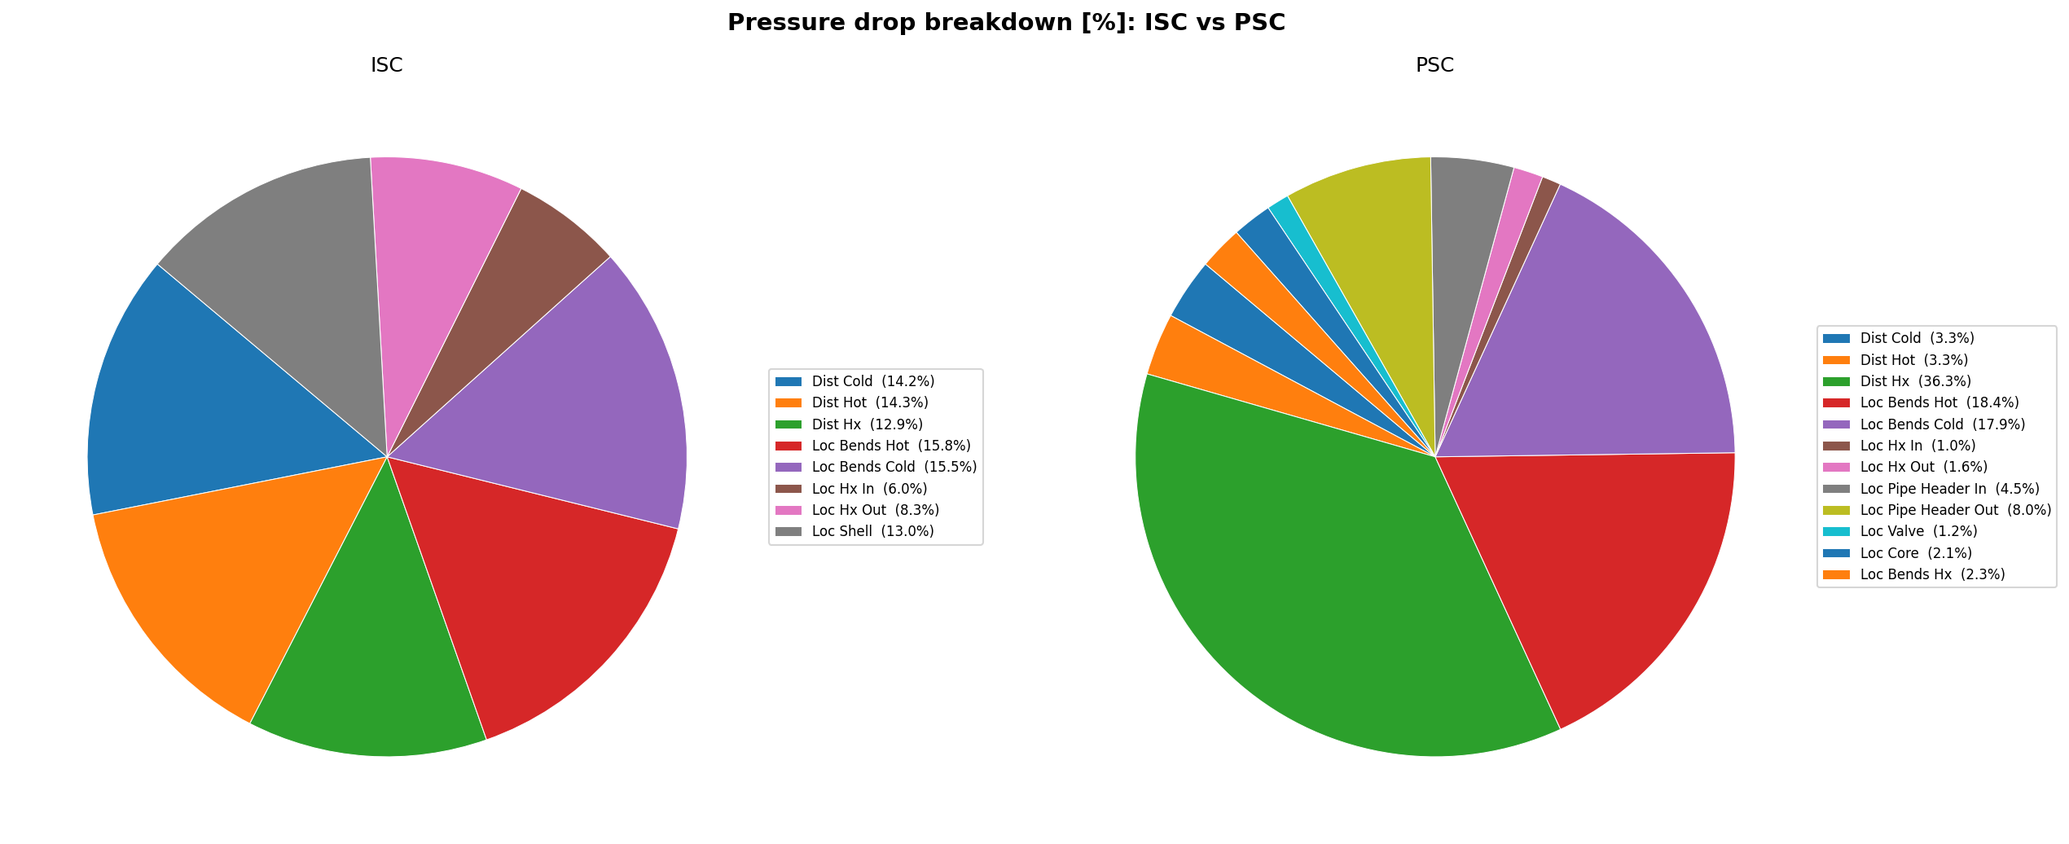
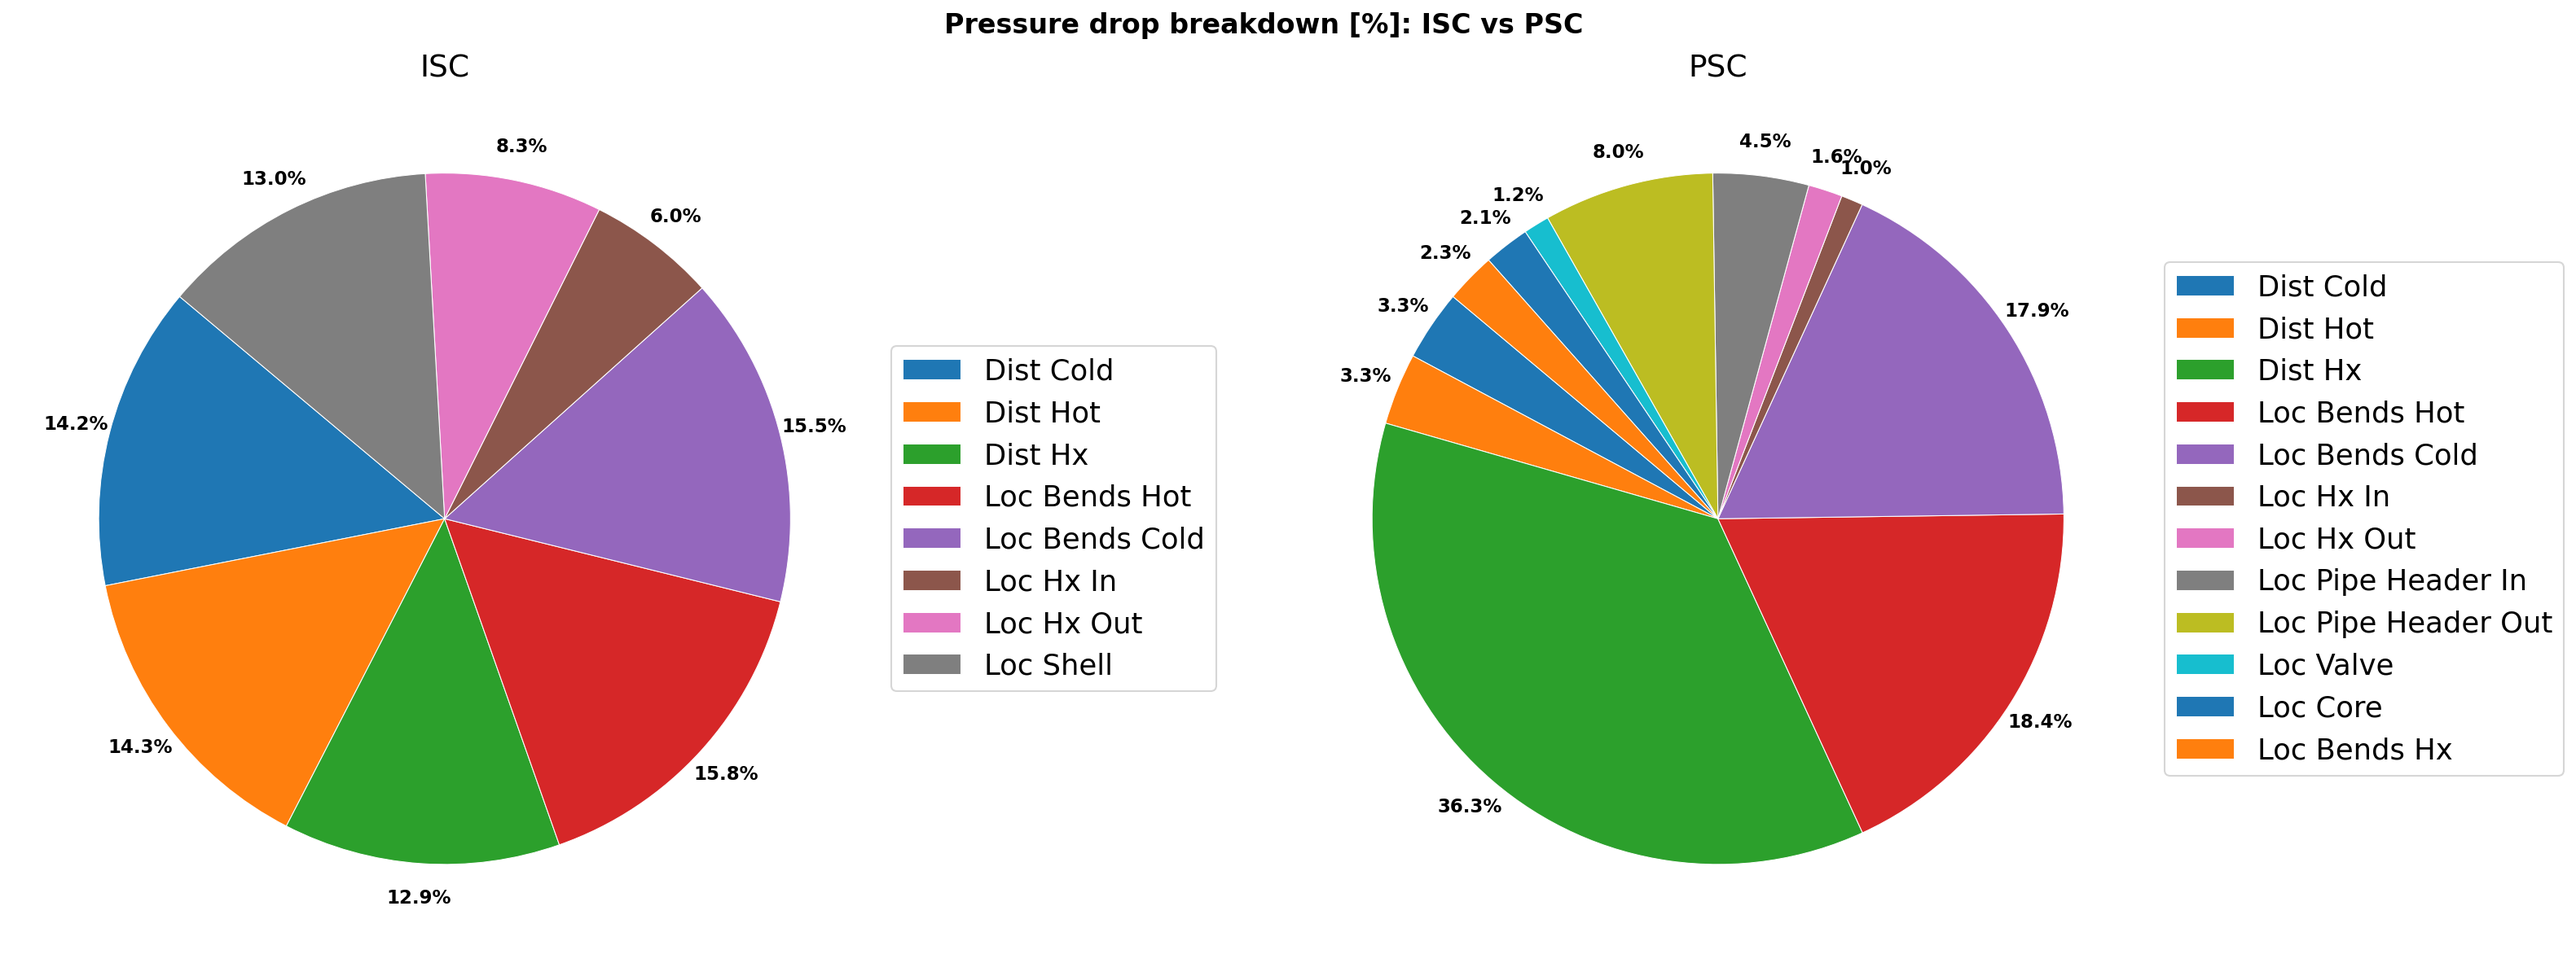
grafici aggiornati

diff --git a/assignment1/project2.py b/assignment1/project2.py
@@ -19,7 +19,7 @@ def reynolds_number(m, D_int, p, T):
 def reynolds_number_shell(m, p, T, d_p, od_HX, D_eq, A_shell):
     ' Calcola il numero di Reynolds per il lato shell (considero la total cross section dei tubi moltiplicata per il numero di tubi)'
     mu = CP.PropsSI('V', 'T', T+273.15, 'P', p, 'Water') # viscosità dinamica
-    Re = m*D_eq / (A_shell*mu) # controllare
+    Re = m*D_eq / (A_shell*mu) 
     return Re
 
 def friction_factor(eps, D, Re):
@@ -56,7 +56,7 @@ def global_heat_transfer_coefficient_HX(P, A_tot, D_ext, D_int, k, Re, p, T, f, 
     # metodo delle resistenze termiche in serie
     U = 1 / (1/h_ext + cond + D_ext/(D_int*h_int))
     deltaT_lm = P / (A_tot * U * F)
-    return U, deltaT_lm
+    return U, deltaT_lm, h_int, h_ext
 
 def temperature_ISC(T, p, T_h_ext, T_c_ext, deltaT_lm, m, P_term):
     ' Calcola la temperatura nel ramo caldo e nel ramo freddo '
@@ -238,7 +238,7 @@ def iteration(config, m_init=100, T_av_init=120, tolerance=1e-5, max_iter=100, s
         # Per PSC, se shell_params è fornito, i valori sono già stati assegnati all'inizio e non serve riassegnare
         
         # Calcolo U e deltaT_lm nello scambiatore
-        U, deltaT_lm = global_heat_transfer_coefficient_HX(
+        U, deltaT_lm, h_int, h_ext = global_heat_transfer_coefficient_HX(
             config['P_term'], config['A_hx_tot'], config['od_hx'], config['id_hx'], 
             config['k_hx'], Re_av, config['pressure'], T_av, f_av,  D_eq, Re_shell, 
             config['Circuit'], config['Correction_f'], p_shell=p_shell, T_shell=T_shell)
@@ -283,9 +283,9 @@ def iteration(config, m_init=100, T_av_init=120, tolerance=1e-5, max_iter=100, s
                     'T_h': T_h,
                     'T_c': T_c
                 }
-                return m_new, T_av_new, T_h, T_c, deltaP_buoyancy, dp_dict, dist_total * m_new**2, loc_total * m_new**2, k_dict, shell_results, history_m, history_T_av
+                return m_new, T_av_new, T_h, T_c, deltaP_buoyancy, dp_dict, dist_total * m_new**2, loc_total * m_new**2, k_dict, shell_results, history_m, history_T_av, U, h_int, h_ext
             else:
-                return m_new, T_av_new, T_h, T_c, deltaP_buoyancy, dp_dict, dist_total * m_new**2, loc_total * m_new**2, k_dict, history_m, history_T_av
+                return m_new, T_av_new, T_h, T_c, deltaP_buoyancy, dp_dict, dist_total * m_new**2, loc_total * m_new**2, k_dict, history_m, history_T_av, U, h_int, h_ext
         
         m = m_new
         T_av = T_av_new
@@ -294,6 +294,12 @@ def iteration(config, m_init=100, T_av_init=120, tolerance=1e-5, max_iter=100, s
             print(f"Iterazione {iter_num+1} ({config['Circuit']}): m = {m:.2f} kg/s, T_av = {T_av:.2f} °C, errore = {error:.4f}")
     
     print(f"\n⚠ Avviso: max iterazioni ({max_iter}) raggiunto senza convergenza ({config['Circuit']})\n")
+    # Calcola U e coefficienti anche in caso di non-convergenza per il ritorno
+    U, deltaT_lm, h_int, h_ext = global_heat_transfer_coefficient_HX(
+        config['P_term'], config['A_hx_tot'], config['od_hx'], config['id_hx'], 
+        config['k_hx'], reynolds_number(m/config['N_tubes'], config['id_hx'], config['pressure'], T_av), 
+        config['pressure'], T_av, friction_factor(config['eps_hx'], config['id_hx'], reynolds_number(m/config['N_tubes'], config['id_hx'], config['pressure'], T_av)),  
+        D_eq, Re_shell, config['Circuit'], config['Correction_f'], p_shell=p_shell, T_shell=T_shell)
     if config['Circuit'] == 'ISC':
         shell_results = {
             'A_shell': A_shell,
@@ -305,9 +311,9 @@ def iteration(config, m_init=100, T_av_init=120, tolerance=1e-5, max_iter=100, s
             'T_h': T_h,
             'T_c': T_c
         }
-        return m, T_av, T_h, T_c, deltaP_buoyancy, dp_dict, dist_total * m**2, loc_total * m**2, k_dict, shell_results, history_m, history_T_av
+        return m, T_av, T_h, T_c, deltaP_buoyancy, dp_dict, dist_total * m**2, loc_total * m**2, k_dict, shell_results, history_m, history_T_av, U, h_int, h_ext
     else:
-        return m, T_av, T_h, T_c, deltaP_buoyancy, dp_dict, dist_total * m**2, loc_total * m**2, k_dict, history_m, history_T_av
+        return m, T_av, T_h, T_c, deltaP_buoyancy, dp_dict, dist_total * m**2, loc_total * m**2, k_dict, history_m, history_T_av, U, h_int, h_ext
 
 def plot_convergence(history_m_ISC, history_T_av_ISC, history_m_PSC, history_T_av_PSC, out_dir):
     """Grafico di convergenza della portata e della temperatura media per ISC e PSC."""
@@ -351,22 +357,23 @@ def plot_pressure_drop_pies(dp_dict_ISC, m_ISC, dp_dict_PSC, m_PSC, out_dir):
         mask = vals > 0
         v = vals[mask]
         lbl = np.array(labels)[mask]
-        wedges, _ = ax.pie(v, startangle=140, wedgeprops=dict(linewidth=0.5, edgecolor='white'))
-        # Legenda con percentuali: nessuna etichetta diretta sul grafico → zero sovrapposizioni
-        pcts = v / v.sum() * 100
-        legend_labels = [f'{l}  ({p:.1f}%)' for l, p in zip(lbl, pcts)]
-        ax.legend(wedges, legend_labels, loc='center left', bbox_to_anchor=(1.0, 0.5),
-                  fontsize=8, frameon=True)
-        ax.set_title(title)
+        wedges, texts, autotexts = ax.pie(v, labels=None, autopct='%1.1f%%', startangle=140, 
+                                            pctdistance=1.1,
+                                            wedgeprops=dict(linewidth=0.5, edgecolor='white'),
+                                            textprops={'fontsize': 11, 'color': 'black', 'weight': 'bold'})
+        # Legenda solo con nomi (senza percentuali)
+        ax.legend(wedges, lbl, loc='center left', bbox_to_anchor=(1, 0.5),
+                  fontsize=17, frameon=True)
+        ax.set_title(title, fontsize=18)
 
-    fig, (ax1, ax2) = plt.subplots(1, 2, figsize=(18, 7))
-    fig.suptitle('Pressure drop breakdown [%]: ISC vs PSC', fontsize=14, fontweight='bold')
+    fig, (ax1, ax2) = plt.subplots(1, 2, figsize=(22, 8))
+    fig.suptitle('Pressure drop breakdown [%]: ISC vs PSC', fontsize=16, fontweight='bold')
     _draw_pie(ax1, vals_ISC, 'ISC')
     _draw_pie(ax2, vals_PSC, 'PSC')
 
+    fig.subplots_adjust(wspace=0.45)
     plt.tight_layout()
     plt.savefig(os.path.join(out_dir, 'pressure_drop_pies.png'), dpi=150, bbox_inches='tight')
-
 
 def plot_pressure_drops(dp_dict_ISC, m_ISC, dist_ISC, loc_ISC, dp_b_ISC,
                         dp_dict_PSC, m_PSC, dist_PSC, loc_PSC, dp_b_PSC, out_dir):
@@ -406,13 +413,13 @@ def plot_pressure_drops(dp_dict_ISC, m_ISC, dist_ISC, loc_ISC, dp_b_ISC,
         if val > 0:
             pct = val / total_ISC * 100
             ax1.text(bar.get_width() * 1.01, bar.get_y() + bar.get_height() / 2,
-                     f'{pct:.1f}%', va='center', ha='left', fontsize=7, color='steelblue')
+                     f'{pct:.1f}%', va='center', ha='left', fontsize=11, color='steelblue')
     # Percentuali sui bar PSC
     for bar, val in zip(bars_h_PSC, vals_PSC):
         if val > 0:
             pct = val / total_PSC * 100
             ax1.text(bar.get_width() * 1.01, bar.get_y() + bar.get_height() / 2,
-                     f'{pct:.1f}%', va='center', ha='left', fontsize=7, color='tomato')
+                     f'{pct:.1f}%', va='center', ha='left', fontsize=11, color='tomato')
 
     # --- Grafico 2: riepilogo aggregato ---
     categories = ['Distributed', 'Localized', 'Buoyancy\n(driving force)']
@@ -434,19 +441,19 @@ def plot_pressure_drops(dp_dict_ISC, m_ISC, dist_ISC, loc_ISC, dp_b_ISC,
         if i < 2:  # distributed e localized
             label += f'\n({bar.get_height() / total_ISC * 100:.1f}%)'
         ax2.text(bar.get_x() + bar.get_width()/2, bar.get_height() * 1.01,
-                 label, ha='center', va='bottom', fontsize=8)
+                 label, ha='center', va='bottom', fontsize=11)
     for i, bar in enumerate(bars_PSC):
         label = f'{bar.get_height():.0f} Pa'
         if i < 2:
             label += f'\n({bar.get_height() / total_PSC * 100:.1f}%)'
         ax2.text(bar.get_x() + bar.get_width()/2, bar.get_height() * 1.01,
-                 label, ha='center', va='bottom', fontsize=8)
+                 label, ha='center', va='bottom', fontsize=11)
 
     plt.tight_layout()
     out_path = os.path.join(out_dir, 'pressure_drops_comparison.png')
     plt.savefig(out_path, dpi=150)
     
-def save_results_to_csv(dp_dict, m, buoyancy, dist_total, loc_total, filename, k_dict=None):
+def save_results_to_csv(dp_dict, m, buoyancy, dist_total, loc_total, filename, k_dict=None, h_int=None, h_ext=None, U=None):
 
     with open(filename, mode='w', newline='') as file:
         writer = csv.writer(file)
@@ -472,6 +479,16 @@ def save_results_to_csv(dp_dict, m, buoyancy, dist_total, loc_total, filename, k
             writer.writerow(["--- K LOSS COEFFICIENTS ---", ""])
             for k, v in k_dict.items():
                 writer.writerow([k, round(v, 6)])
+        
+        if h_int is not None or h_ext is not None or U is not None:
+            writer.writerow(["", ""])
+            writer.writerow(["--- HEAT TRANSFER COEFFICIENTS ---", ""])
+            if h_int is not None:
+                writer.writerow(["h Internal [W/m²K]", round(h_int, 4)])
+            if h_ext is not None:
+                writer.writerow(["h External [W/m²K]", round(h_ext, 4)])
+            if U is not None:
+                writer.writerow(["U Overall [W/m²K]", round(U, 4)])
 
 
 # ---------- DATA ----------
@@ -583,7 +600,7 @@ config_ISC = {
 }
 # ---------- EXECUTION ----------
 # ITERAZIONI per ISC
-m_res_ISC, T_av_res_ISC, T_h_res_ISC, T_c_res_ISC, dp_b_res_ISC, dp_dict_res_ISC, dist_total_ISC, loc_total_ISC, k_dict_ISC, shell_results_ISC, history_m_ISC, history_T_av_ISC = iteration(config_ISC)
+m_res_ISC, T_av_res_ISC, T_h_res_ISC, T_c_res_ISC, dp_b_res_ISC, dp_dict_res_ISC, dist_total_ISC, loc_total_ISC, k_dict_ISC, shell_results_ISC, history_m_ISC, history_T_av_ISC, U_res_ISC, h_int_res_ISC, h_ext_res_ISC = iteration(config_ISC)
 
 # Stampa risultati finali organizzati
 print("\n" + "="*80)
@@ -599,11 +616,11 @@ print(f"{'Distributed pressure drop':<35} {dist_total_ISC:>40.2f} Pa")
 print(f"{'Localized pressure drop':<35} {loc_total_ISC:>40.2f} Pa")
 print(f"{'Driving force (Buoyancy)':<35} {dp_b_res_ISC:>40.2f} Pa")
 # Stampa tabella perdite di carico
-save_results_to_csv(dp_dict_res_ISC, m_res_ISC, dp_b_res_ISC, dist_total_ISC, loc_total_ISC, filename=os.path.join(os.path.dirname(__file__), "result_ISC.csv"), k_dict=k_dict_ISC)
+save_results_to_csv(dp_dict_res_ISC, m_res_ISC, dp_b_res_ISC, dist_total_ISC, loc_total_ISC, filename=os.path.join(os.path.dirname(__file__), "result_ISC.csv"), k_dict=k_dict_ISC, h_int=h_int_res_ISC, h_ext=h_ext_res_ISC, U=U_res_ISC)
 print("\n" + "="*80)
 # ITERAZIONI per PSC, riutilizzando i parametri shell-side calcolati in ISC
 config_PSC['T_HX'] = T_av_res_ISC # aggiorno la temperatura media ottenuta dall'iterazione ISC
-m_res_PSC, T_av_res_PSC, T_h_res_PSC, T_c_res_PSC, dp_b_res_PSC, dp_dict_res_PSC, dist_total_PSC, loc_total_PSC, k_dict_PSC, history_m_PSC, history_T_av_PSC = iteration(config_PSC, shell_params=shell_results_ISC)
+m_res_PSC, T_av_res_PSC, T_h_res_PSC, T_c_res_PSC, dp_b_res_PSC, dp_dict_res_PSC, dist_total_PSC, loc_total_PSC, k_dict_PSC, history_m_PSC, history_T_av_PSC, U_res_PSC, h_int_res_PSC, h_ext_res_PSC = iteration(config_PSC, shell_params=shell_results_ISC)
 
 # Stampa risultati finali organizzati
 print("\n" + "="*80)
@@ -619,7 +636,7 @@ print(f"{'Distributed pressure drop':<35} {dist_total_PSC:>40.2f} Pa")
 print(f"{'Localized pressure drop':<35} {loc_total_PSC:>40.2f} Pa")
 print(f"{'Driving force (Buoyancy)':<35} {dp_b_res_PSC:>40.2f} Pa")
 # Stampa tabella perdite di carico
-save_results_to_csv(dp_dict_res_PSC, m_res_PSC, dp_b_res_PSC, dist_total_PSC, loc_total_PSC, filename=os.path.join(os.path.dirname(__file__), "result_PSC.csv"), k_dict=k_dict_PSC)
+save_results_to_csv(dp_dict_res_PSC, m_res_PSC, dp_b_res_PSC, dist_total_PSC, loc_total_PSC, filename=os.path.join(os.path.dirname(__file__), "result_PSC.csv"), k_dict=k_dict_PSC, h_int=h_int_res_PSC, h_ext=h_ext_res_PSC, U=U_res_PSC)
 
 # ---------- PLOT ----------
 out_dir = os.path.dirname(__file__)
